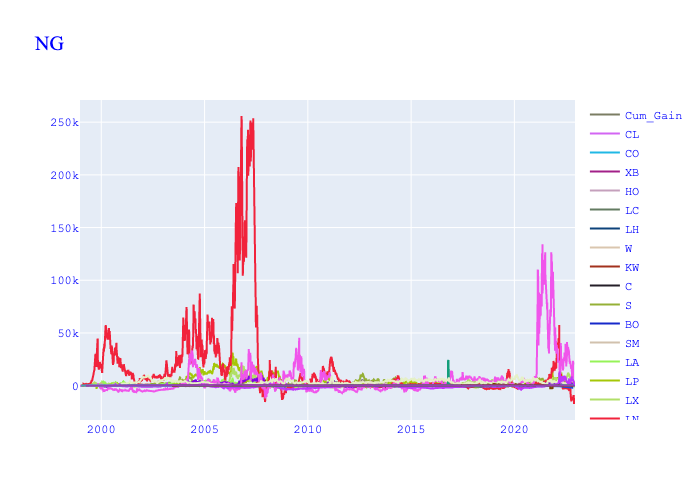
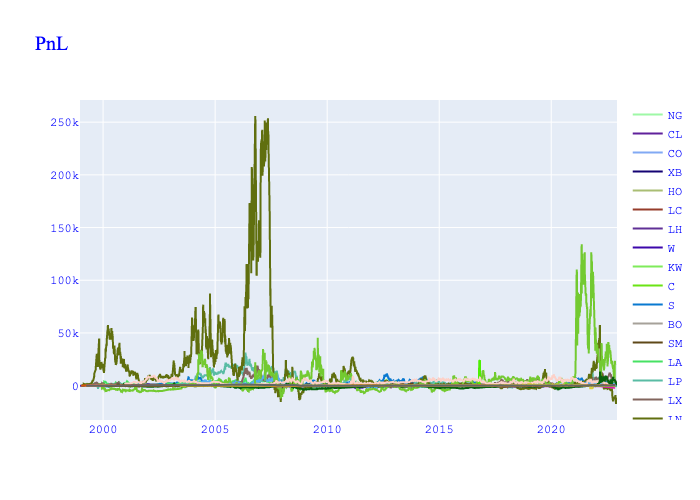
feat : update README and bugfix

diff --git a/Code/plotting_lib.py b/Code/plotting_lib.py
@@ -33,10 +33,11 @@ def setting_layout(figure,title):
 
 def create_figure(	data, 
 				    title,
-				    x_axis_name,
-					y_axis_name ):
+				    x_axis,
+				    y_axis,
+					y_axis_name ,):
 	
-	figure = Figure(Scatter(x=data[x_axis_name], y=data[y_axis_name],mode='lines', name = y_axis_name, line = {'color' : generator_colour()}))
+	figure = Figure(Scatter(x=data[x_axis], y=data[y_axis],mode='lines', name = y_axis_name, line = {'color' : generator_colour()}))
 	figure = setting_layout(figure,title)
 	
 	return figure	
@@ -51,12 +52,12 @@ def adding_horizontal_line(figure, value, name = 'avg'):
 
 def adding_line(figure,
 				data, 
-				title,
-				x_axis_name,
-				y_axis_name  ):
+				name,
+				x_axis,
+				y_axis  ):
 	color = generator_colour()
 	# check we need to add two lines same colour
-	figure.add_trace(Scatter(x=data[x_axis_name], y=data[y_axis_name], mode='lines', name = title, line = {'color' : color}))
+	figure.add_trace(Scatter(x=data[x_axis], y=data[y_axis], mode='lines', name = name, line = {'color' : color}))
 	return figure	
 
 

diff --git a/main.py b/main.py
@@ -6,13 +6,13 @@ database = utilities.load_database(PATH.database.value)
 fig = None
 for comm in database:
 	if comm in ['LP','LT','LN','LL','LA','LX']:
-		print'(@@@@@@@@@@@@@@@@@@@@@@@@ ' ,comm)
+		print('@@@@@@@@@@@@@@@@@@@@@@@@ ' ,comm)
 	back_test = BackTest(comm,PATH.database.value,PATH.Output.value)
 
 	back_test.run()
 	pnl = back_test.PnL
 	if fig == None:
-		fig = plotting_lib.create_figure(pnl,comm,'Date','Cum_Gain')
+		fig = plotting_lib.create_figure(pnl,'PnL','Date','Cum_Gain',comm)
 	else:
 		fig = plotting_lib.adding_line(fig,pnl,comm,'Date','Cum_Gain')	
 

diff --git a/Code/back_testing.py b/Code/back_testing.py
@@ -216,7 +216,7 @@ class BackTest():
 
 	 
 	def plot(self):
-		fig = plotting_lib.create_figure(self.PnL,f'{self.commodity}_PnL','Date','Cum_Gain')
+		fig = plotting_lib.create_figure(self.PnL,f'{self.commodity}_PnL','Date','Cum_Gain',self.commodity)
 		plotting_lib.plot(fig,self.output_path)
 
 

diff --git a/README.md b/README.md
@@ -11,6 +11,10 @@ The strategy is based on the following steps:
 * Rolling over new futures pair on the 6th, 7th, 8th, 9th and 10th business dates of the long future expiration month
 + Compute PnL, cumulative gain and plot them 
 
+In case of missing prices because the database might not be fully completed, it follows	
+-	if there is no available price in any future of the same commodity at the specific day, it would be high probability it was a non tradable day: the PnL is equal to the day before's PnL
++	if there are available prices in other futures of the same commodity at the specific date, it is a missing price. The future missing price is the mean of the available futures prices.
+
 # Theory
 
 Traders roll over futures contracts to switch from the front month (it refers to the nearest expiration date in future trading)	that is close to expiration to another contract in a further-out-month. Futures contracts have expiration dates as opposed to stocks that trade in perpetuity. They are rolled over to a different month to avoid the costs and obligations assosciated with settlement of the contracts. Futures contracts are most often settled by physical settlement or cash settlement. 
